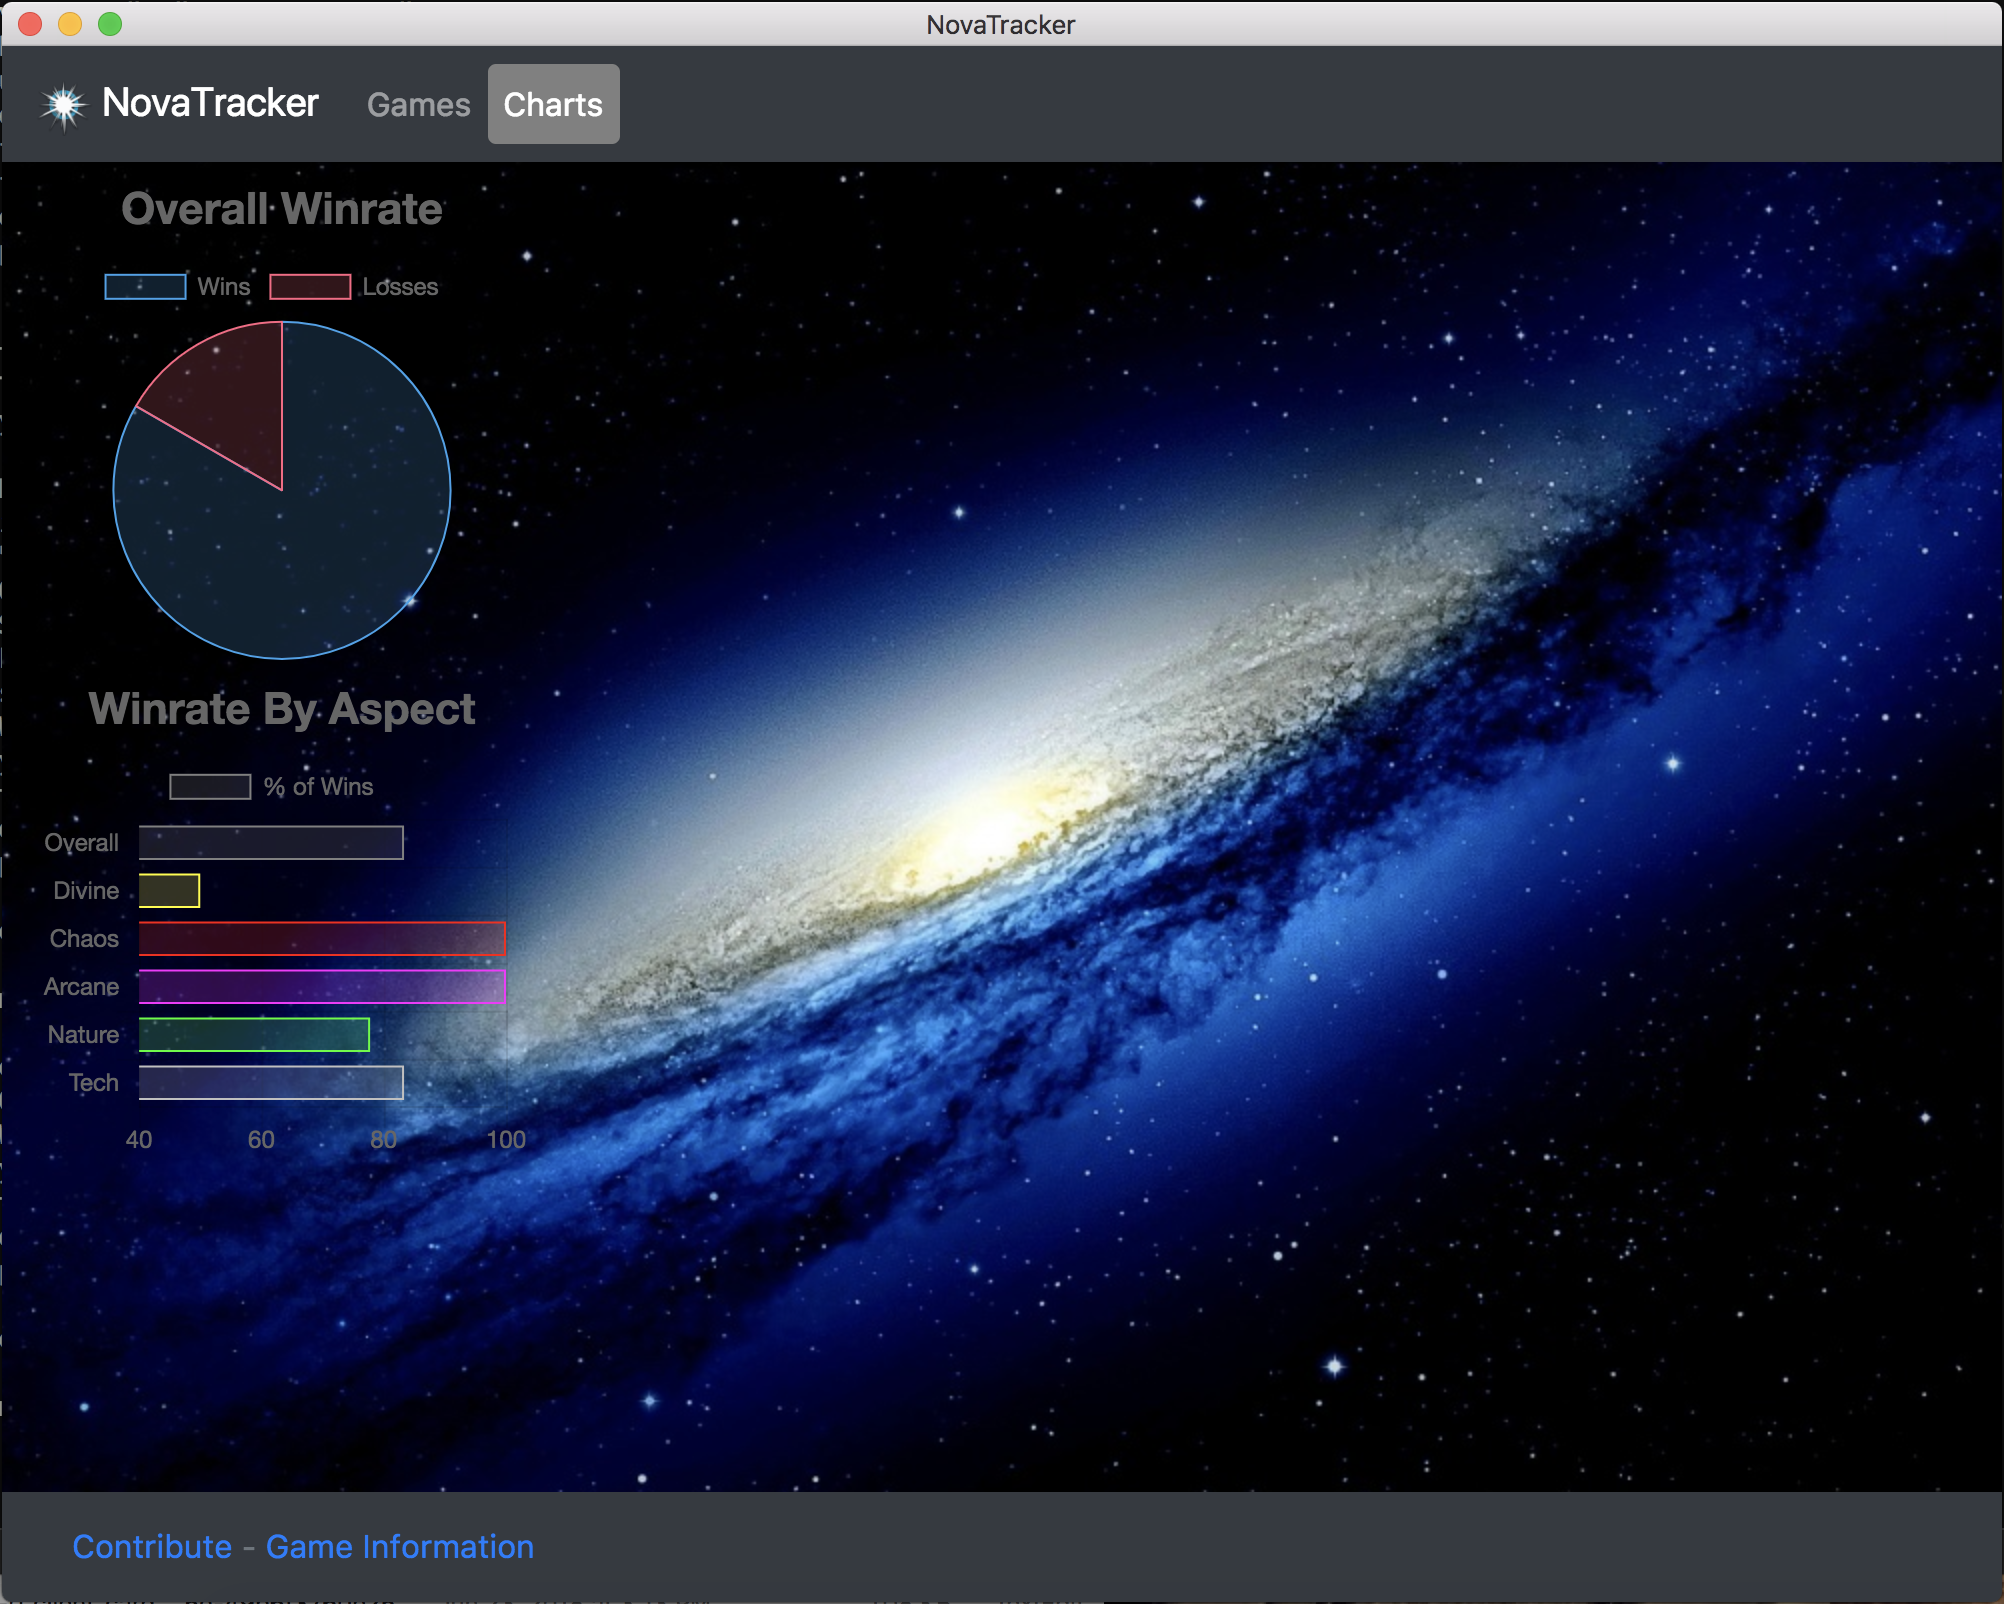
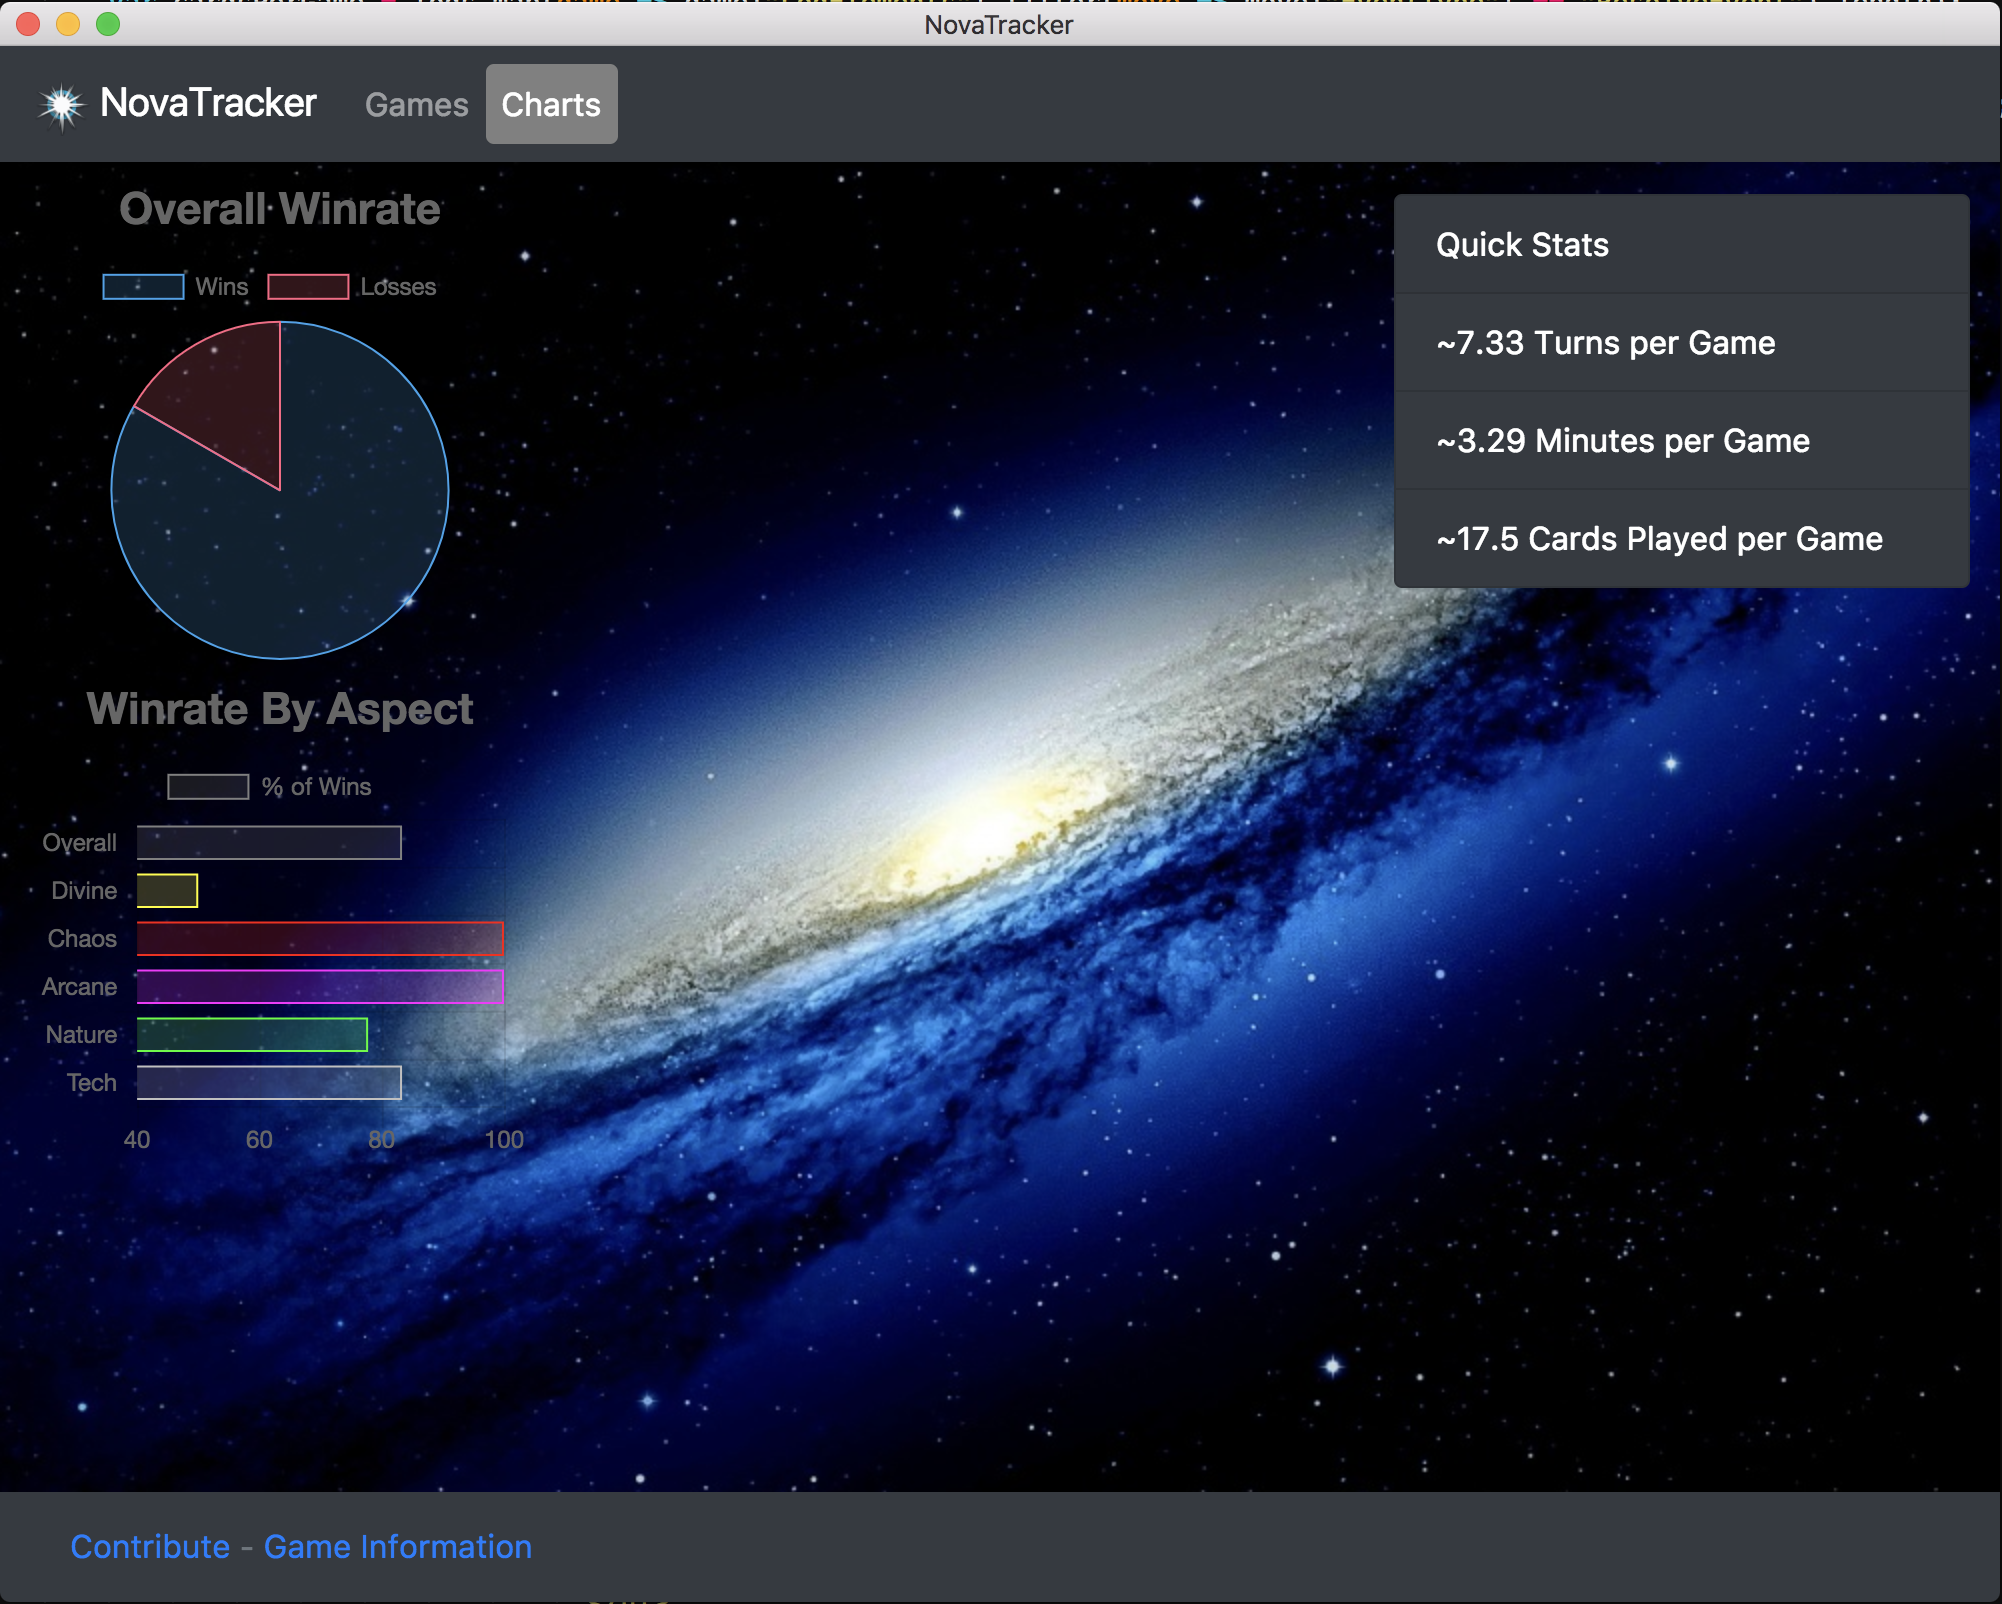
show some quick stats

diff --git a/renderer.js b/renderer.js
@@ -63,35 +63,6 @@ function deckAspects(game) {
 	}
 }
 
-function winTally() {
-	var wins = 0;
-	var losses = 0;
-	var wonGames = [];
-	var lostGames = [];
-
-	var logs = JSON.parse(fs.readFileSync(path.join(game_folder, log_folder, "game_log_file.json")));
-
-
-	logs.forEach(game => {
-		var aspects = deckAspects(game);
-		if (game["IsPlayerWinner"]) {
-			wonGames.push({
-				"playerAspects": aspects["playerAspects"],
-				"opponent": aspects["opponentAspects"],
-			});
-		} else {
-			lostGames.push({
-				"playerAspects": aspects["playerAspects"],
-				"opponent": aspects["opponentAspects"],
-			});
-		}
-	});
-
-	return {
-		"wonGames": wonGames,
-		"lostGames": lostGames
-	}
-}
 
 // Element generators
 
@@ -119,79 +90,114 @@ function populateTable() {
 	});
 }
 
-function winRateChart() {
-	var winRecord = winTally();
+function populateStats() {
+	var wonGames = [];
+	var lostGames = [];
 
-	new Chart(document.getElementById("overallWinRate").getContext("2d"), {
-		type: "pie",
-		data: {
-			labels: ["Wins", "Losses"],
-			datasets: [{
-				label: "# of Games",
-				data: [winRecord["wonGames"].length, winRecord["lostGames"].length],
-				backgroundColor: [
-					"rgba(54, 162, 235, 0.2)",
-					"rgba(255, 99, 132, 0.2)"
-				],
-				borderColor: [
-					"rgba(54, 162, 235, 1)",
-					"rgba(255,99,132, 1)"
-				],
-				borderWidth: 1
-			}]
-		},
-		options: {
-			title: {
-				display: true,
-				text: "Overall Winrate",
-				fontSize: 22
+	fs.readFile(path.join(game_folder, log_folder, "game_log_file.json"), (err, logs) => {
+		var logs = JSON.parse(logs);
+
+		logs.forEach(game => {
+			var aspects = deckAspects(game);
+			if (game["IsPlayerWinner"]) {
+				wonGames.push({
+					"playerAspects": aspects["playerAspects"],
+					"opponent": aspects["opponentAspects"],
+				});
+			} else {
+				lostGames.push({
+					"playerAspects": aspects["playerAspects"],
+					"opponent": aspects["opponentAspects"],
+				});
+			}
+		});
+
+		new Chart(document.getElementById("overallWinRate").getContext("2d"), {
+			type: "pie",
+			data: {
+				labels: ["Wins", "Losses"],
+				datasets: [{
+					label: "# of Games",
+					data: [wonGames.length, lostGames.length],
+					backgroundColor: [
+						"rgba(54, 162, 235, 0.2)",
+						"rgba(255, 99, 132, 0.2)"
+					],
+					borderColor: [
+						"rgba(54, 162, 235, 1)",
+						"rgba(255,99,132, 1)"
+					],
+					borderWidth: 1
+				}]
 			},
-			responsive: false,
-			maintainAspectRatio: false
-		}
-	});
-
-	var divineRecord = {"wins": winRecord["wonGames"].filter(game => game["playerAspects"].includes("D")).length, "losses": winRecord["lostGames"].filter(game => game["playerAspects"].includes("D")).length};
-	var chaosRecord = {"wins": winRecord["wonGames"].filter(game => game["playerAspects"].includes("C")).length, "losses": winRecord["lostGames"].filter(game => game["playerAspects"].includes("C")).length};
-	var arcaneRecord = {"wins": winRecord["wonGames"].filter(game => game["playerAspects"].includes("A")).length, "losses": winRecord["lostGames"].filter(game => game["playerAspects"].includes("A")).length};
-	var natureRecord = {"wins": winRecord["wonGames"].filter(game => game["playerAspects"].includes("N")).length, "losses": winRecord["lostGames"].filter(game => game["playerAspects"].includes("N")).length};
-	var techRecord = {"wins": winRecord["wonGames"].filter(game => game["playerAspects"].includes("T")).length, "losses": winRecord["lostGames"].filter(game => game["playerAspects"].includes("T")).length};
-
-	new Chart(document.getElementById("winRateByAspect").getContext("2d"), {
-		type: "horizontalBar",
-		data: {
-			labels: ["Overall", "Divine", "Chaos", "Arcane", "Nature", "Tech"],
-			datasets: [{
-				label: "% of Wins",
-				data: [+(winRecord["wonGames"].length / (winRecord["wonGames"].length + winRecord["lostGames"].length) * 100).toFixed(2), +(divineRecord["wins"] / (divineRecord["wins"] + divineRecord["losses"]) * 100).toFixed(2), +(chaosRecord["wins"] / (chaosRecord["wins"] + chaosRecord["losses"]) * 100).toFixed(2), +(arcaneRecord["wins"] / (arcaneRecord["wins"] + arcaneRecord["losses"]) * 100).toFixed(2), +(natureRecord["wins"] / (natureRecord["wins"] + natureRecord["losses"]) * 100).toFixed(2), +(techRecord["wins"] / (techRecord["wins"] + techRecord["losses"]) * 100).toFixed(2)],
-				backgroundColor: [
-					"rgba(128, 128, 128, 0.2)",
-					"rgba(255, 255, 0, 0.2)",
-					"rgba(255, 0, 0, 0.2)",
-					"rgba(255, 0, 255, 0.2)",
-					"rgba(0, 255, 0, 0.2)",
-					"rgba(192, 192, 192, 0.2)"
-				],
-				borderColor: [
-					"rgba(128, 128, 128, 1)",
-					"rgba(255, 255, 0, 1)",
-					"rgba(255, 0, 0, 1)",
-					"rgba(255, 0, 255, 1)",
-					"rgba(0, 255, 0, 1)",
-					"rgba(192, 192, 192, 1)"
-				],
-				borderWidth: 1
-			}]
-		},
-		options: {
-			title: {
-				display: true,
-				text: "Winrate By Aspect",
-				fontSize: 22
+			options: {
+				title: {
+					display: true,
+					text: "Overall Winrate",
+					fontSize: 22
+				},
+				responsive: false,
+				maintainAspectRatio: false
+			}
+		});
+	
+		var divineRecord = {"wins": wonGames.filter(game => game["playerAspects"].includes("D")).length, "losses": lostGames.filter(game => game["playerAspects"].includes("D")).length};
+		var chaosRecord = {"wins": wonGames.filter(game => game["playerAspects"].includes("C")).length, "losses": lostGames.filter(game => game["playerAspects"].includes("C")).length};
+		var arcaneRecord = {"wins": wonGames.filter(game => game["playerAspects"].includes("A")).length, "losses": lostGames.filter(game => game["playerAspects"].includes("A")).length};
+		var natureRecord = {"wins": wonGames.filter(game => game["playerAspects"].includes("N")).length, "losses": lostGames.filter(game => game["playerAspects"].includes("N")).length};
+		var techRecord = {"wins": wonGames.filter(game => game["playerAspects"].includes("T")).length, "losses": lostGames.filter(game => game["playerAspects"].includes("T")).length};
+	
+		new Chart(document.getElementById("winRateByAspect").getContext("2d"), {
+			type: "horizontalBar",
+			data: {
+				labels: ["Overall", "Divine", "Chaos", "Arcane", "Nature", "Tech"],
+				datasets: [{
+					label: "% of Wins",
+					data: [+(wonGames.length / (wonGames.length + lostGames.length) * 100).toFixed(2), +(divineRecord["wins"] / (divineRecord["wins"] + divineRecord["losses"]) * 100).toFixed(2), +(chaosRecord["wins"] / (chaosRecord["wins"] + chaosRecord["losses"]) * 100).toFixed(2), +(arcaneRecord["wins"] / (arcaneRecord["wins"] + arcaneRecord["losses"]) * 100).toFixed(2), +(natureRecord["wins"] / (natureRecord["wins"] + natureRecord["losses"]) * 100).toFixed(2), +(techRecord["wins"] / (techRecord["wins"] + techRecord["losses"]) * 100).toFixed(2)],
+					backgroundColor: [
+						"rgba(128, 128, 128, 0.2)",
+						"rgba(255, 255, 0, 0.2)",
+						"rgba(255, 0, 0, 0.2)",
+						"rgba(255, 0, 255, 0.2)",
+						"rgba(0, 255, 0, 0.2)",
+						"rgba(192, 192, 192, 0.2)"
+					],
+					borderColor: [
+						"rgba(128, 128, 128, 1)",
+						"rgba(255, 255, 0, 1)",
+						"rgba(255, 0, 0, 1)",
+						"rgba(255, 0, 255, 1)",
+						"rgba(0, 255, 0, 1)",
+						"rgba(192, 192, 192, 1)"
+					],
+					borderWidth: 1
+				}]
 			},
-			responsive: false,
-			maintainAspectRatio: false
-		}
+			options: {
+				title: {
+					display: true,
+					text: "Winrate By Aspect",
+					fontSize: 22
+				},
+				responsive: false,
+				maintainAspectRatio: false
+			}
+		});
+
+		var gameLengths = logs.map(game => game["LogElements"][game["LogElements"].length - 1]["Turn"]);
+		var averageLength = gameLengths.reduce(function(sum, a) {return sum + Number(a)}, 0) / gameLengths.length;
+
+		$(".list-group").append(`<li class="list-group-item bg-dark">~` + averageLength.toFixed(2) + ` Turns per Game</li>`);
+
+		var gameLengths = logs.map(game => ((new Date(game["LogElements"][game["LogElements"].length - 1]["LogTime"]) - new Date(game["StartTime"])) / 1000) / 60);
+		var averageLength = gameLengths.reduce(function(sum, a) {return sum + Number(a)}, 0) / gameLengths.length;
+
+		$(".list-group").append(`<li class="list-group-item bg-dark">~` + averageLength.toFixed(2) + ` Minutes per Game</li>`);
+
+		var cardsPerGame = logs.map(game => game["LogElements"].filter(move => move["EventType"] == "ResolveEvent").length);
+		var averageCardsPerGame = cardsPerGame.reduce(function(sum, a) {return sum + Number(a)}, 0) / cardsPerGame.length;
+
+		$(".list-group").append(`<li class="list-group-item bg-dark">~` + averageCardsPerGame + ` Cards Played per Game</li>`);
 	});
 }
 
@@ -230,14 +236,21 @@ function chartPage() {
 	$(".active").removeClass("active");
 	$("a:contains(Charts)").addClass("active");
 
-	$(".container-fluid").append(`<canvas id="overallWinRate" width="250" height="250""></canvas>
+	$(".container-fluid").append(`<div class="card mt-3 text-white bg-dark float-right" style="width: 18rem;">
+									  <div class="card-header">
+									    Quick Stats
+									  </div>
+									  <ul class="list-group list-group-flush">
+									  </ul>
+								  </div>
+								  <canvas id="overallWinRate" width="250" height="250""></canvas>
 								  <canvas id="winRateByAspect" width="250" height="250""></canvas>`);
 
 	fs.watchFile(path.join(game_folder, log_folder, "game_log_file.json"), (curr, prev) => {
-		winRateChart();
+		populateStats();
 	});
 
-	winRateChart();
+	populateStats();
 }
 
 

diff --git a/README.md b/README.md
@@ -17,7 +17,7 @@ $ npm start
 
 # TODO
 
-- Log games into a database
+- Export to web
 
 - Show more game details (play by play)
 
